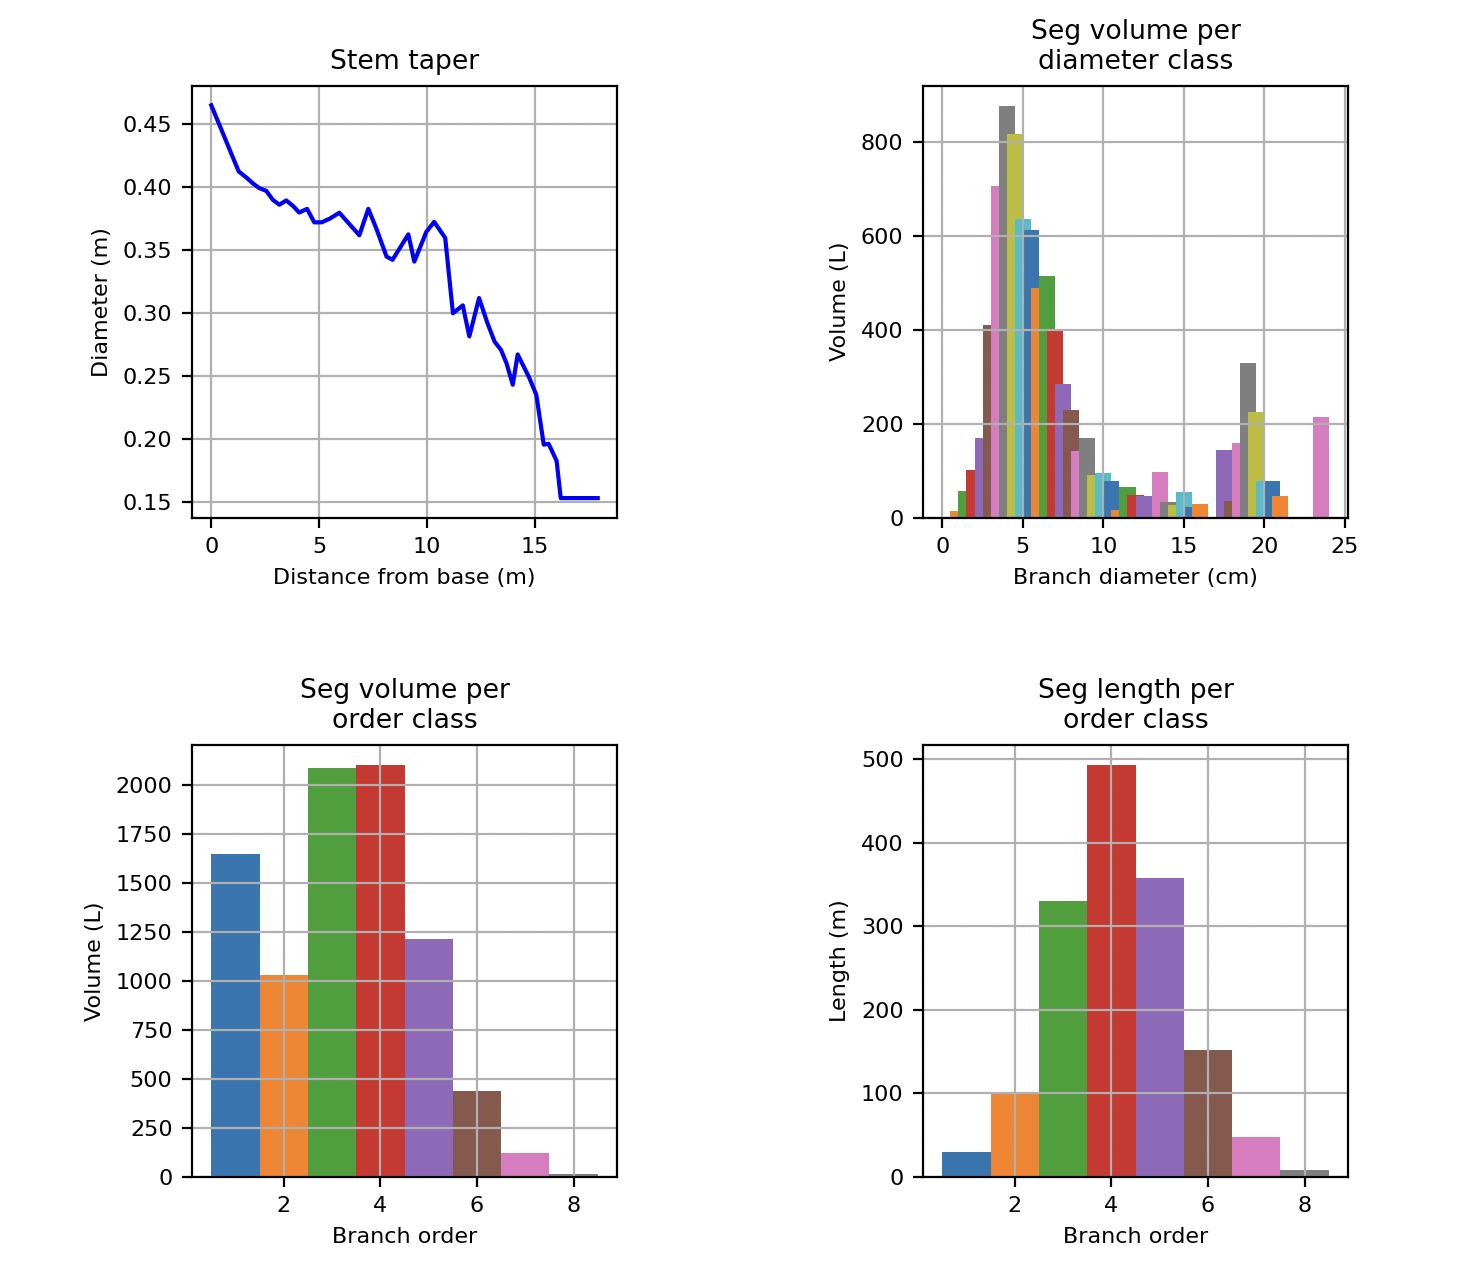
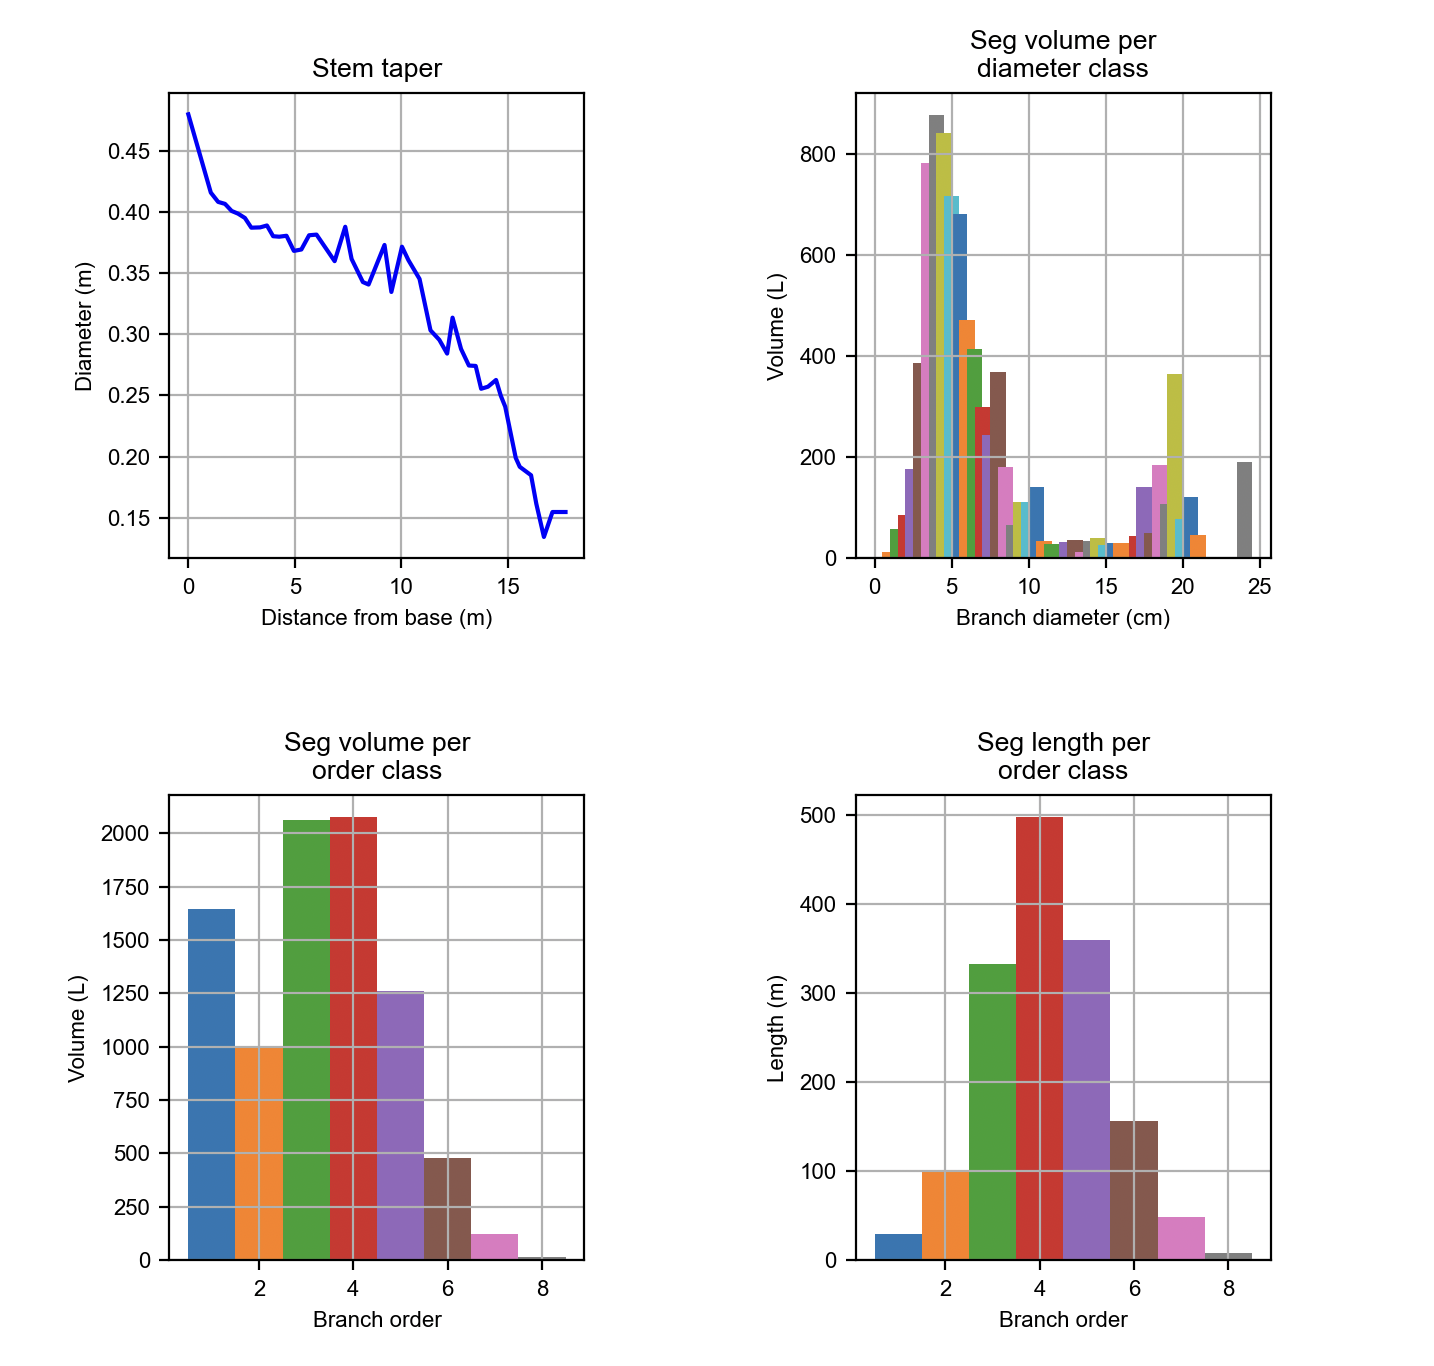
font change

diff --git a/TreeQSMSteps/tree_data.py b/TreeQSMSteps/tree_data.py
@@ -29,7 +29,8 @@ def tree_data(cylinder, branch, trunk, inputs, iter = 0):
     Returns:
         (dict, int/dict): Tree data and triangulation results, triangulation results are 0 if not computed.
     """
-    matplotlib.rcParams.update({'font.size': 8})
+    matplotlib.rcParams.update({'font.size': 8,'font.family':'Arial'})
+
     # Define some variables from cylinder
     Rad = cylinder['radius']
     Len = cylinder['length']
